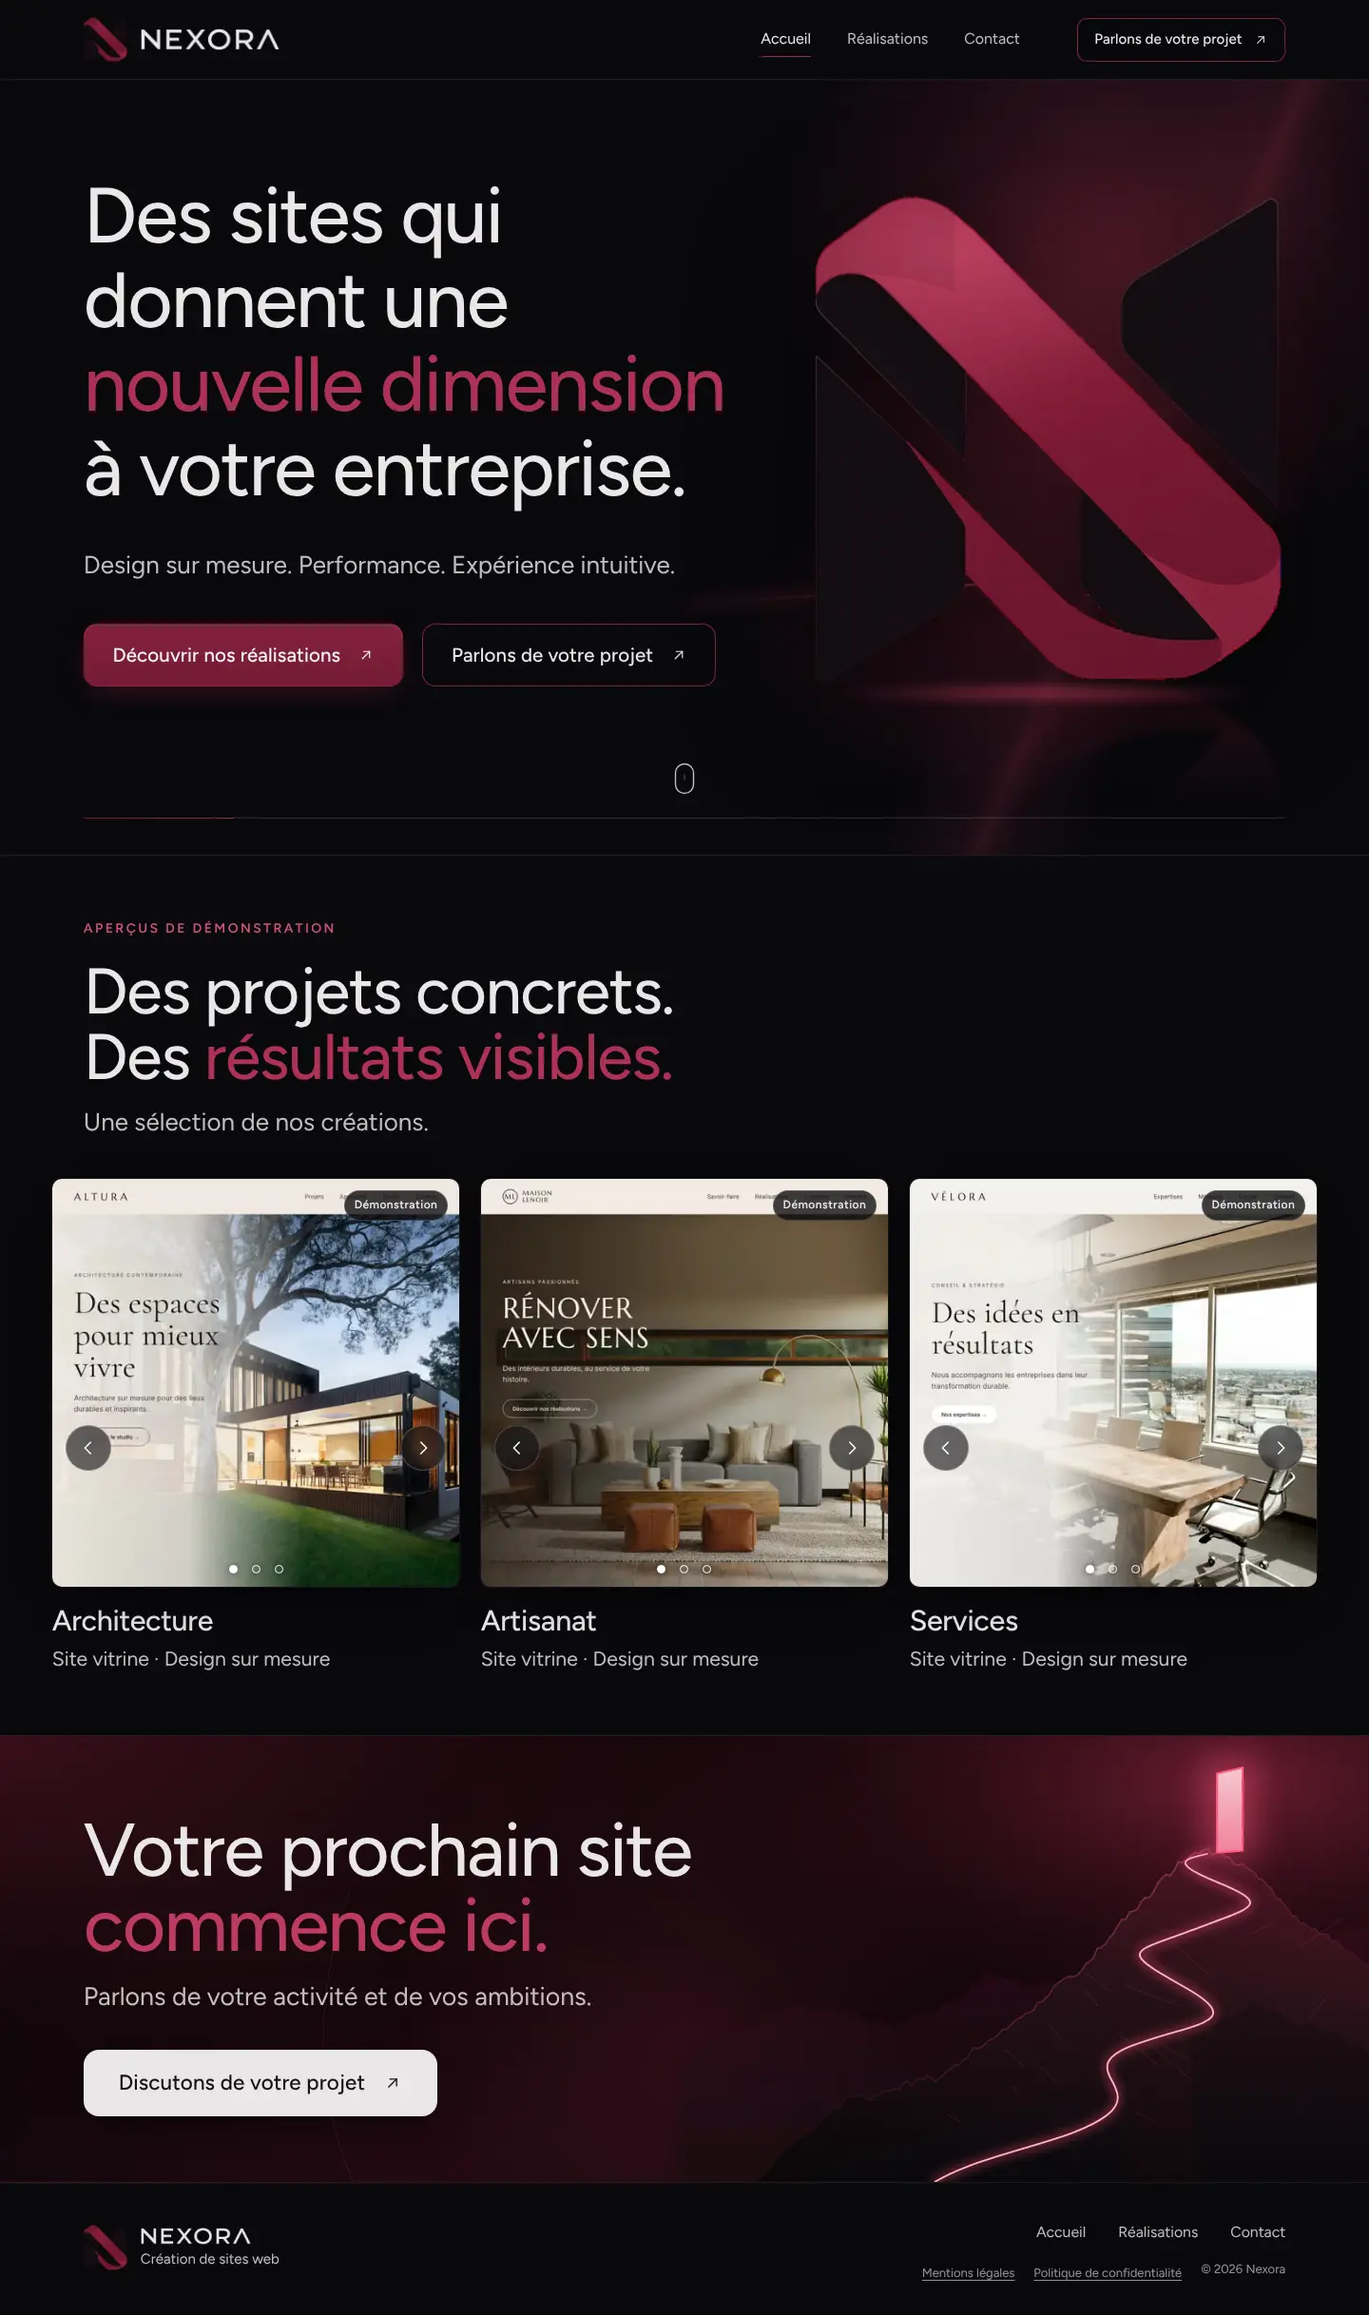
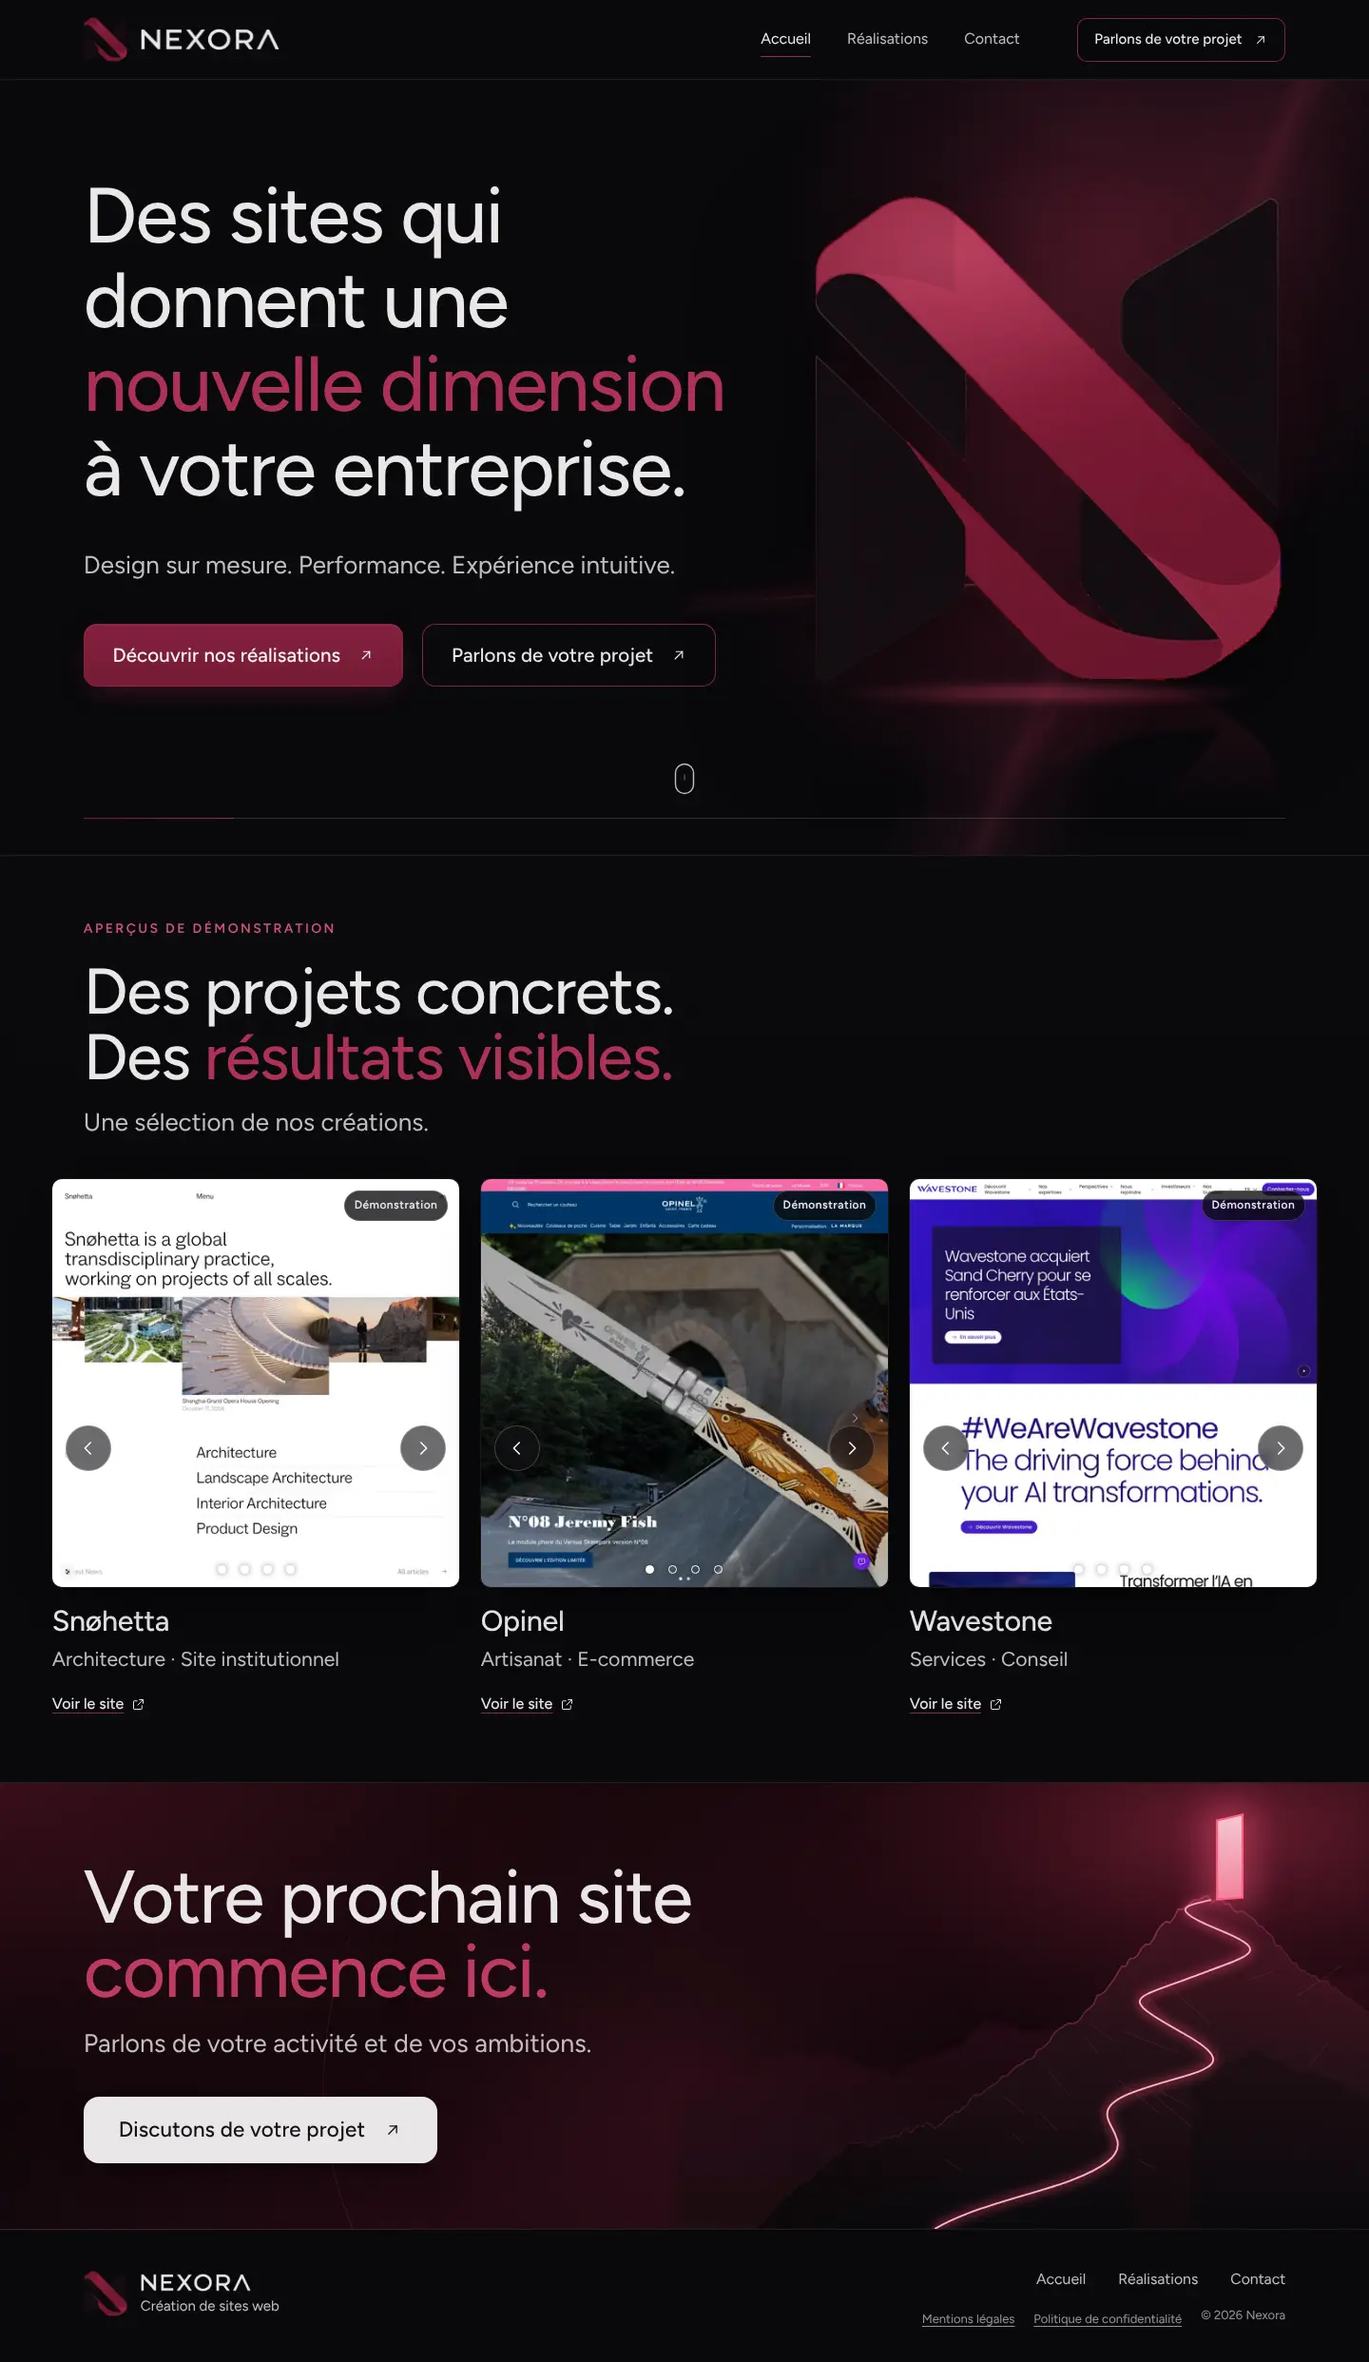
nexora: 3 sites de référence réels à la place des démonstrations fictives
- Snøhetta (architecture), Opinel (artisanat), Wavestone (conseil) : 4 captures
  chacun (début, 1/3, 2/3, fin), prises par assets-src/real-sites/capture.mjs.
- Toujours marqués « Démonstration » : ce ne sont pas des réalisations de Nexora
  (mentions légales mises à jour).
- Points de pagination sur pastille sombre : lisibles sur captures claires.

Claude-Session: https://claude.ai/code/session_01FggEW7ijAtyp6Ggwk9amFV

diff --git a/nexora/src/server/db/seed.ts b/nexora/src/server/db/seed.ts
@@ -7,39 +7,43 @@ import { processAndStoreImage } from '../lib/images';
 import { bumpContentVersion } from '../lib/repo';
 
 /**
- * Données de DÉMONSTRATION clairement identifiées (is_demo = true, mention « Démonstration » sur le site) :
- * trois sites fictifs (Altura, Maison Lenoir, Vélora) — ce ne sont pas des clients.
+ * Projets d'EXEMPLE affichés tant que Nexora n'a pas ajouté ses propres réalisations : trois sites publics de
+ * référence (Snøhetta, Opinel, Wavestone), capturés le 14/10/2026 par assets-src/real-sites/capture.mjs.
+ * Ils NE SONT PAS des réalisations de Nexora : is_demo = true → mention « Démonstration » sur le site.
  * N'agit que si la base ne contient encore aucun projet.
  */
 const DEMOS = [
   {
-    name: 'Architecture',
-    category: 'Site vitrine · Design sur mesure',
-    description: '',
+    name: 'Snøhetta',
+    category: 'Architecture · Site institutionnel',
+    url: 'https://www.snohetta.com',
     images: [
-      ['altura-1', 'Démonstration Altura : page d’accueil avec une maison contemporaine au crépuscule et le titre « Des espaces pour mieux vivre ».'],
-      ['altura-2', 'Démonstration Altura : page Projets présentant trois maisons contemporaines.'],
-      ['altura-3', 'Démonstration Altura : page Approche avec un intérieur lumineux et les étapes du projet.'],
+      ['snohetta-1', 'Site de Snøhetta, haut de page : présentation de l’agence et liste des disciplines (architecture, paysage, intérieur, design produit).'],
+      ['snohetta-2', 'Site de Snøhetta, milieu de page : actualités de projets et agenda des conférences.'],
+      ['snohetta-3', 'Site de Snøhetta, milieu de page : liste des projets phares, de la Bibliotheca Alexandrina à l’Opéra national de Norvège.'],
+      ['snohetta-4', 'Site de Snøhetta, bas de page : contact et pied de page.'],
     ],
   },
   {
-    name: 'Artisanat',
-    category: 'Site vitrine · Design sur mesure',
-    description: '',
+    name: 'Opinel',
+    category: 'Artisanat · E-commerce',
+    url: 'https://www.opinel.com/fr-fr/',
     images: [
-      ['lenoir-1', 'Démonstration Maison Lenoir : page d’accueil « Rénover avec sens » sur un salon chaleureux.'],
-      ['lenoir-2', 'Démonstration Maison Lenoir : page Savoir-faire avec menuiserie, rénovation et finitions.'],
-      ['lenoir-3', 'Démonstration Maison Lenoir : fiche réalisation d’un séjour rénové.'],
+      ['opinel-1', 'Site d’Opinel, haut de page : couteau de poche en édition limitée mis en avant.'],
+      ['opinel-2', 'Site d’Opinel, milieu de page : personnalisation par gravure et collections de couteaux.'],
+      ['opinel-3', 'Site d’Opinel, milieu de page : articles et conseils autour des couteaux.'],
+      ['opinel-4', 'Site d’Opinel, bas de page : histoire de la marque depuis 1890 et pied de page.'],
     ],
   },
   {
-    name: 'Services',
-    category: 'Site vitrine · Design sur mesure',
-    description: '',
+    name: 'Wavestone',
+    category: 'Services · Conseil',
+    url: 'https://www.wavestone.com/fr/',
     images: [
-      ['velora-1', 'Démonstration Vélora : page d’accueil « Des idées en résultats » avec une salle de réunion lumineuse.'],
-      ['velora-2', 'Démonstration Vélora : page Expertises avec trois offres de conseil.'],
-      ['velora-3', 'Démonstration Vélora : page Méthode en trois temps.'],
+      ['wavestone-1', 'Site de Wavestone, haut de page : actualité du cabinet et accroche sur les transformations par l’IA.'],
+      ['wavestone-2', 'Site de Wavestone, milieu de page : dernières publications et informations.'],
+      ['wavestone-3', 'Site de Wavestone, milieu de page : section Talents & Culture.'],
+      ['wavestone-4', 'Site de Wavestone, bas de page : prochains événements, contact et pied de page.'],
     ],
   },
 ] as const;
@@ -51,7 +55,7 @@ export async function seedDemo(deps: Deps, seedDir: string) {
   for (const [i, demo] of DEMOS.entries()) {
     const [p] = await deps.db
       .insert(projects)
-      .values({ name: demo.name, category: demo.category, description: demo.description, isDemo: true, published: true, featuredPosition: i + 1, sortOrder: i + 1 })
+      .values({ name: demo.name, category: demo.category, url: demo.url, isDemo: true, published: true, featuredPosition: i + 1, sortOrder: i + 1 })
       .returning({ id: projects.id });
     for (const [k, [file, alt]] of demo.images.entries()) {
       const buf = await readFile(path.join(seedDir, `${file}.webp`));

diff --git a/nexora/tests/unit/public.test.ts b/nexora/tests/unit/public.test.ts
@@ -29,16 +29,22 @@ describe('site public', () => {
     expect(html).toContain('Aperçus de démonstration');
     expect(html.match(/data-carousel=""/g)?.length).toBe(3);
     for (const n of [1, 2, 3]) expect(html).toContain(`id="carousel-${n}"`);
-    expect(html.match(/class="carousel__slide"/g)?.length).toBe(9);
+    expect(html.match(/class="carousel__slide"/g)?.length).toBe(12);
     expect(html.match(/class="badge-demo"/g)?.length).toBe(3);
-    // Aucune image de carrousel n'est chargée d'office (paresseux) et toutes ont des dimensions (pas de décalage).
-    const imgs = [...html.matchAll(/<img src="\/media\/[^>]+>/g)].map((m) => m[0]);
-    expect(imgs.length).toBe(9);
+    // 1re image de chaque carrousel : chargement paresseux ; les suivantes : différées (data-src, chargées à l'usage).
+    // Toutes ont des dimensions (pas de décalage) et un texte alternatif.
+    expect(html.match(/<picture>/g)?.length).toBe(3);
+    expect(html.match(/<picture data-deferred/g)?.length).toBe(9);
+    const deferred = [...html.matchAll(/<img data-src="\/media\/[^>]+>/g)].map((m) => m[0]);
+    expect(deferred.length).toBe(9);
+    const imgs = [...html.matchAll(/<img (?:data-)?src="\/media\/[^>]+>/g)].map((m) => m[0]);
     for (const img of imgs) {
-      expect(img).toContain('loading="lazy"');
       expect(img).toMatch(/width="\d+"/);
-      expect(img).toMatch(/alt="Démonstration/);
+      expect(img).toMatch(/alt="Site d/);
     }
+    expect(html).toContain('href="https://www.snohetta.com"');
+    expect(html).toContain('Opinel');
+    expect(html).toContain('Wavestone');
     // Jeton du formulaire remplacé à chaque requête.
     expect(html).not.toContain('__NX_FORM_TOKEN__');
   }, 180_000);

diff --git a/nexora/tests/e2e/site.spec.ts b/nexora/tests/e2e/site.spec.ts
@@ -121,13 +121,13 @@ test('carrousels indépendants : flèches, points, clavier, chargement paresseux
   expect(await scrollLeftOf(page, 3)).toBe(0);
   await expect(page.locator('#carousel-2 [data-carousel-dot="1"]')).toHaveAttribute('aria-current', 'true');
   await expect(page.locator('#carousel-1 [data-carousel-dot="0"]')).toHaveAttribute('aria-current', 'true');
-  await expect(page.locator('#carousel-2 [data-carousel-status]')).toHaveText('Image 2 sur 3');
+  await expect(page.locator('#carousel-2 [data-carousel-status]')).toHaveText('Image 2 sur 4');
   await expect
     .poll(() => page.locator('#carousel-2 .carousel__slide').nth(1).locator('img').evaluate((e) => (e as HTMLImageElement).complete && (e as HTMLImageElement).naturalWidth > 0))
     .toBe(true);
   // Les autres carrousels n'ont rien chargé de plus.
-  expect(await page.locator('#carousel-1 picture[data-deferred]').count()).toBe(2);
-  expect(await page.locator('#carousel-3 picture[data-deferred]').count()).toBe(2);
+  expect(await page.locator('#carousel-1 picture[data-deferred]').count()).toBe(3);
+  expect(await page.locator('#carousel-3 picture[data-deferred]').count()).toBe(3);
 
   // Points du carrousel 3.
   await page.locator('#carousel-3 [data-carousel-dot="2"]').click();
@@ -136,7 +136,7 @@ test('carrousels indépendants : flèches, points, clavier, chargement paresseux
 
   // Précédent depuis la première image : boucle vers la dernière.
   await page.locator('#carousel-1 [data-carousel-prev]').click();
-  await expect.poll(() => scrollLeftOf(page, 1)).toBe(2);
+  await expect.poll(() => scrollLeftOf(page, 1)).toBe(3);
 
   // Clavier.
   await page.locator('#carousel-1 [data-carousel-viewport]').focus();

diff --git a/nexora/src/server/views/site/legal.tsx b/nexora/src/server/views/site/legal.tsx
@@ -76,8 +76,9 @@ export const LegalNotice = ({ content, publicUrl }: { content: SiteContent; publ
             protégé par le droit de la propriété intellectuelle. Toute reproduction sans autorisation préalable est interdite.
           </p>
           <p>
-            Les projets signalés « Démonstration » sont des exemples fictifs, réalisés pour illustrer notre savoir-faire ; ils ne
-            représentent pas des clients. Les photographies utilisées dans ces démonstrations proviennent d’Unsplash (licence Unsplash).
+            Les projets signalés « Démonstration » sont des sites publics de référence présentés à titre d’exemple : ils n’ont pas été
+            réalisés par Nexora et ne représentent pas des clients. Les captures d’écran, noms et marques appartiennent à leurs
+            propriétaires respectifs.
           </p>
 
           <h2>Données personnelles et cookies</h2>

diff --git a/nexora/src/styles/site.css b/nexora/src/styles/site.css
@@ -915,11 +915,16 @@ section[id],
   position: absolute;
   z-index: 2;
   left: 50%;
-  bottom: 6px;
+  bottom: 8px;
   translate: -50% 0;
   display: flex;
   gap: 0;
   padding: 0 4px;
+  /* Pastille sombre : les points restent lisibles sur des captures claires comme foncées. */
+  border-radius: 999px;
+  background: rgb(18 16 20 / 0.5);
+  -webkit-backdrop-filter: blur(6px);
+  backdrop-filter: blur(6px);
 }
 .carousel__dot {
   width: 24px;

diff --git a/nexora/scripts/seed.ts b/nexora/scripts/seed.ts
@@ -1,4 +1,4 @@
-// Ajoute les 3 projets de DÉMONSTRATION (sites fictifs) si la base n'a encore aucun projet.
+// Ajoute les 3 projets d'EXEMPLE (sites publics de référence, mention « Démonstration ») si la base n'a encore aucun projet.
 import path from 'node:path';
 import { bootstrap, PROJECT_ROOT } from '../src/server/bootstrap';
 import { seedDemo } from '../src/server/db/seed';

diff --git a/nexora/README.md b/nexora/README.md
@@ -57,8 +57,10 @@ contenu » en base, et toutes les instances re-génèrent la page à la requête
 5. Ordre des images : flèches ↑ ↓ ; **Définir comme couverture** place l’image en premier.
 6. Cocher **Publié**, choisir la **position 1, 2 ou 3** sur la page d’accueil, enregistrer.
 
-**Remplacer les démonstrations** : les trois projets fournis (Altura, Maison Lenoir, Vélora) sont **fictifs** et
-affichés avec la mention « Démonstration ». Une fois vos projets publiés et placés en positions 1–3, dépubliez ou
+**Remplacer les démonstrations** : les trois projets fournis (Snøhetta, Opinel, Wavestone) sont des **sites publics de
+référence**, capturés pour l’exemple — ils n’ont **pas** été réalisés par Nexora et restent affichés avec la mention
+« Démonstration ». Ne pas décocher cette mention : les présenter comme vos réalisations serait trompeur (et leurs
+captures appartiennent à leurs propriétaires). Une fois vos projets publiés et placés en positions 1–3, dépubliez ou
 supprimez les démonstrations. Le sur-titre « Aperçus de démonstration » disparaît automatiquement dès qu’un vrai projet
 est affiché. Le tableau de bord rappelle tant qu’une démonstration est publiée.
 
@@ -156,7 +158,7 @@ src/styles/          CSS du site et de l’admin
 public/brand/        logo d’origine détouré, masques du néon, icônes ; public/fonts : Figtree (OFL)
 assets-src/          fichiers ORIGINAUX fournis + scripts d’extraction (logo, masques, illustrations, démos)
 drizzle/             migrations SQL versionnées
-seed/demo/           visuels des projets de démonstration
+seed/demo/           captures des 3 sites de référence (assets-src/real-sites/capture.mjs)
 tests/               unit/ (Vitest) et e2e/ (Playwright)
 docs/                rapport de tests, captures d’écran, informations manquantes
 ```

diff --git a/nexora/docs/RAPPORT.md b/nexora/docs/RAPPORT.md
@@ -14,7 +14,7 @@ développement (conteneur Linux, Node 22.22, Chromium 141, PostgreSQL 16.15 loca
 | Revue de sécurité du code (revue dédiée + sondages manuels) | ✅ aucune vulnérabilité exploitable identifiée ; 1 durcissement appliqué |
 | Lighthouse 12.8.2, mobile | Performance **100** · Accessibilité **100** · Bonnes pratiques **100** · SEO **100** |
 | Lighthouse 12.8.2, ordinateur | Performance **100** · Accessibilité **100** · Bonnes pratiques **100** · SEO **100** |
-| Sauvegarde → restauration (PGlite + disque → PostgreSQL + autre disque) | ✅ 3 projets, 9 images, 81 fichiers vérifiés (SHA-256), image servie après restauration |
+| Sauvegarde → restauration (PGlite + disque → PostgreSQL + autre disque) | ✅ 3 projets, 9 images, 81 fichiers vérifiés (SHA-256), image servie après restauration (mesuré avec les anciennes démonstrations) |
 
 ## 2. Performance (laboratoire)
 
@@ -49,7 +49,7 @@ Ce qui a été fait pour y arriver :
 2. Images surdimensionnées (symbole, logotype) → nouvelles tailles 320/640 px et `sizes` exacts.
 3. Cache de 30 jours sur la marque et les polices → 1 an.
 4. Feuille de style bloquante → intégrée (gain estimé 130 ms sur mobile).
-5. Le test E2E a révélé que Chrome préchargeait les 9 images des carrousels → chargement différé piloté par carrousel.
+5. Le test E2E a révélé que Chrome préchargeait toutes les images des carrousels → chargement différé piloté par carrousel.
 
 ## 3. Tests fonctionnels et visuels (Playwright, navigateur réel)
 

diff --git a/nexora/docs/A-COMPLETER.md b/nexora/docs/A-COMPLETER.md
@@ -35,6 +35,6 @@ Facultatif : e-mail et téléphone à afficher publiquement dans la section cont
 
 ## Contenus
 
-- [ ] Vrais projets (nom, catégorie, lien, 1 à 10 images carrées, textes alternatifs) pour remplacer les 3 démonstrations fictives.
+- [ ] Vrais projets (nom, catégorie, lien, 1 à 10 images carrées, textes alternatifs) pour remplacer les 3 sites de référence (Snøhetta, Opinel, Wavestone), qui ne sont pas des réalisations de Nexora.
 - [ ] Validation des textes (titre, accroche, messages) — ceux des maquettes sont en place et modifiables.
 - [ ] Logo vectoriel (SVG/AI) si disponible : le site utilise le PNG original détouré (net jusqu’à 960 px).
